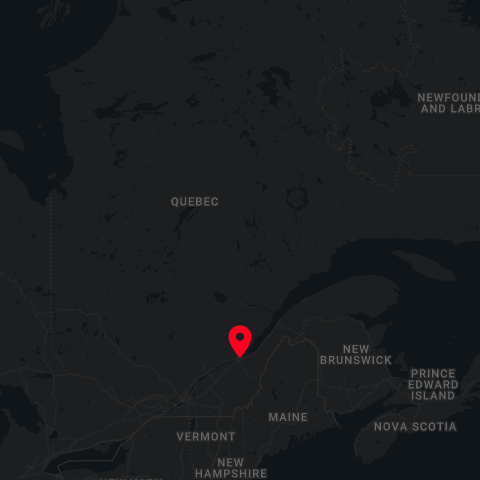
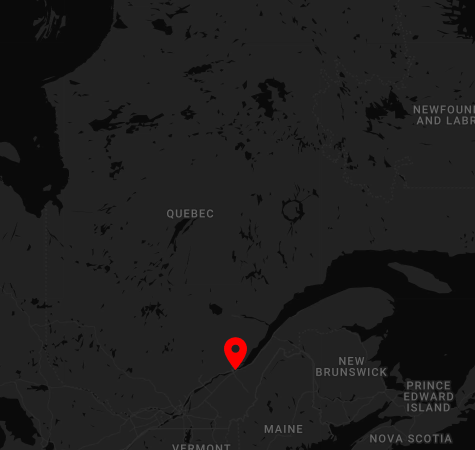
maps updated

diff --git a/src/views/HomeView.vue b/src/views/HomeView.vue
@@ -122,7 +122,7 @@ const archivedNewsletters = [
           <h2 class="display-3">Our team</h2>
           <div class="title-separator mt-3 mb-5"></div>
           <p class="fs-5 justified-p">
-            We are a group of over 50 McGill University students of various
+            We are a group of over 170 McGill University students of various
             academic levels working together to design and manufacture an
             off-road prototype vehicle. While the team consists mostly of
             engineering students, we have members from all faculties on campus.
@@ -146,7 +146,7 @@ const archivedNewsletters = [
 
     <section class="pt-3 pt-lg-5">
       <div class="text-center py-5">
-        <h2 class="display-3">2026 Competitions</h2>
+        <h2 class="display-3">2027 Competitions</h2>
         <div class="title-separator mt-3 mb-5 mx-auto"></div>
         <div class="container">
           <p class="fs-5 justified-p px-4">
@@ -163,7 +163,7 @@ const archivedNewsletters = [
       <div class="row pt-3 pt-lg-5 justify-content-center">
         <div
           class="col-md-6 col-lg-3 comp-map full-height-image"
-          style="background-image: url('images/maps/QC.png')"
+          style="background-image: url('images/maps/qc.png')"
         >
           <div class="map-content">
             <h3>Épreuve du Nord</h3>
@@ -174,23 +174,23 @@ const archivedNewsletters = [
 
         <div
           class="col-md-6 col-lg-3 comp-map full-height-image"
-          style="background-image: url('images/maps/NY.png')"
+          style="background-image: url('images/maps/penn.png')"
         >
           <div class="map-content">
-            <h3>Baja SAE New York</h3>
-            <p class="text-primary">June 11 - 14</p>
-            <p>Palmyra, NY, USA</p>
+            <h3>Baja SAE Williamsport</h3>
+            <p class="text-primary">May 20 - 23</p>
+            <p>Williamsport, Pennsylvania, USA</p>
           </div>
         </div>
 
         <div
           class="col-md-6 col-lg-3 comp-map full-height-image"
-          style="background-image: url('images/maps/Ohio.png')"
+          style="background-image: url('images/maps/michigan.png')"
         >
           <div class="map-content">
-            <h3>Baja SAE Ohio</h3>
-            <p class="text-primary">Sept 24 - 27</p>
-            <p>Nashport, Ohio, USA</p>
+            <h3>Baja SAE Michigan</h3>
+            <p class="text-primary">Oct 7 - 10</p>
+            <p>Marshall, Michigan, USA</p>
           </div>
         </div>
 
